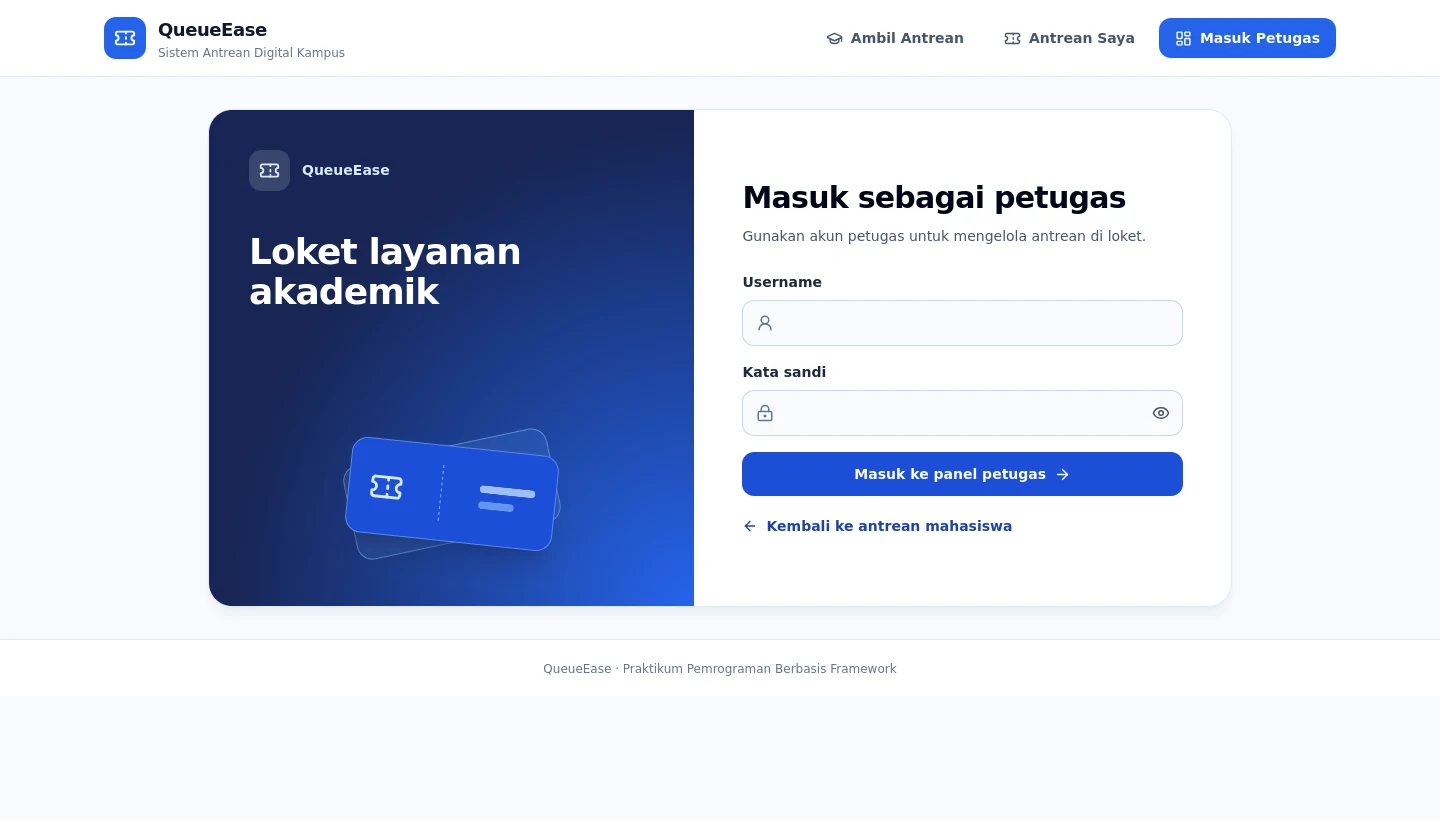
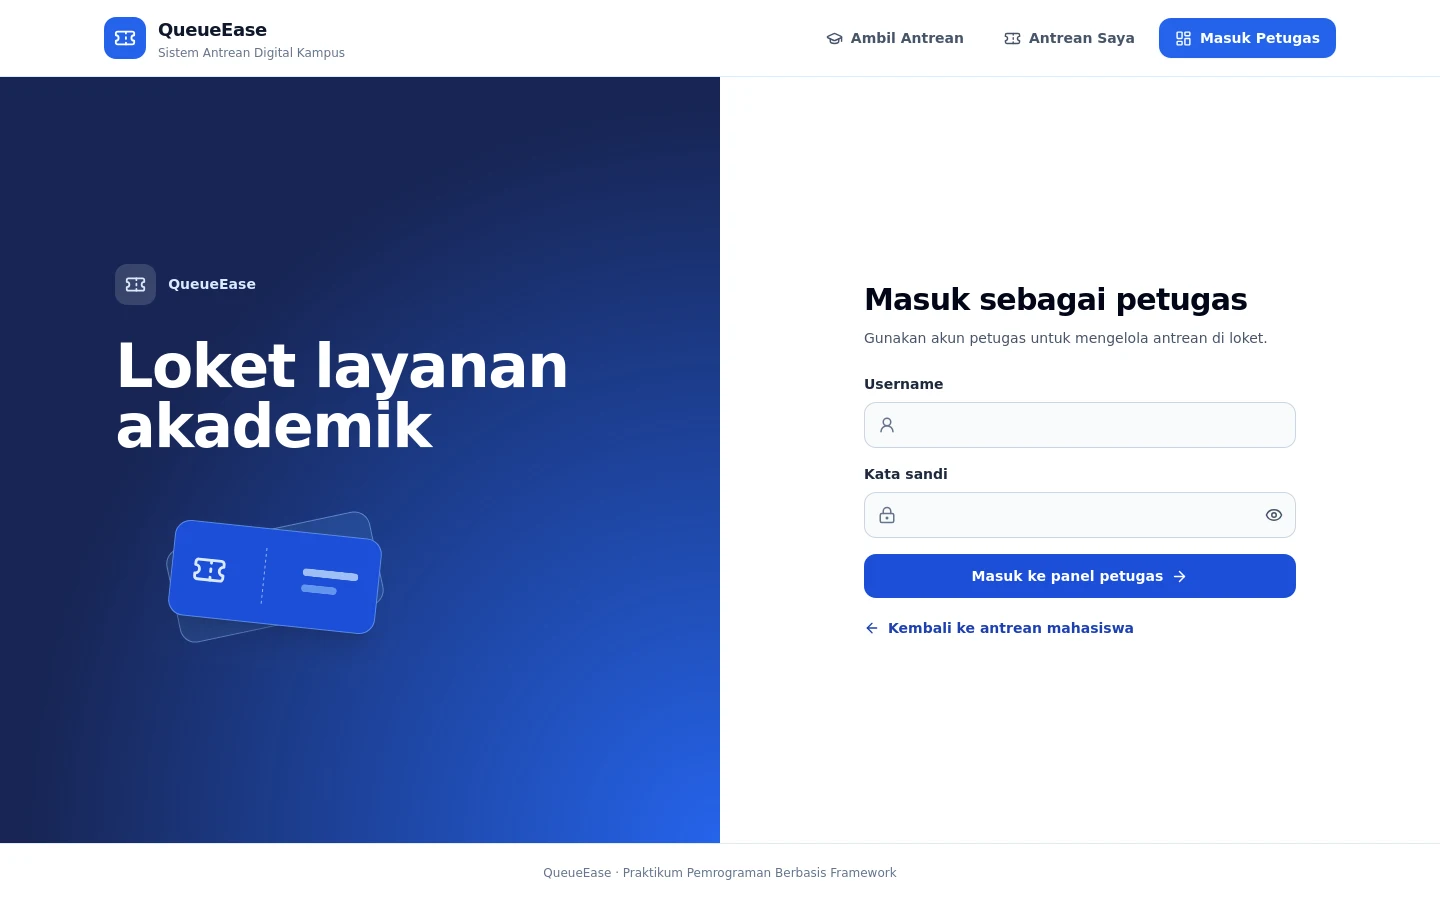
Make sign-in full-page and redesign the TV queue display

diff --git a/frontend/src/pages/DisplayPage.jsx b/frontend/src/pages/DisplayPage.jsx
@@ -1,10 +1,11 @@
 import { useEffect, useState } from "react";
-import { Clock3, Maximize, Megaphone, Minimize, Ticket } from "lucide-react";
+import { DoorOpen, Maximize, Minimize, Pause, Play, Ticket } from "lucide-react";
 import { Link } from "react-router-dom";
 import { getDisplayQueue } from "../services/api";
 
 const timeFormat = new Intl.DateTimeFormat("id-ID", { hour: "2-digit", minute: "2-digit" });
 const dateFormat = new Intl.DateTimeFormat("id-ID", { dateStyle: "full" });
+const notice = "Perhatikan nomor antrean pada layar. Jika nomor Anda terlewat, hubungi petugas loket.";
 
 export default function DisplayPage() {
   const [board, setBoard] = useState(null);
@@ -12,6 +13,7 @@ export default function DisplayPage() {
   const [now, setNow] = useState(() => new Date());
   const [fullscreen, setFullscreen] = useState(Boolean(document.fullscreenElement));
   const [fullscreenError, setFullscreenError] = useState(false);
+  const [tickerPaused, setTickerPaused] = useState(false);
 
   useEffect(() => {
     let active = true;
@@ -56,62 +58,85 @@ export default function DisplayPage() {
   const emptyMessage = error ? "Menunggu koneksi ke server" : board ? "Belum ada panggilan" : "Memuat antrean…";
 
   return (
-    <main className="flex min-h-screen flex-col gap-5 bg-slate-950 px-4 py-5 text-white sm:gap-8 sm:p-8 xl:px-[4vw]">
-      <header className="flex flex-wrap items-center justify-between gap-4">
-        <Link to="/" className="inline-flex items-center gap-3 rounded-lg">
-          <span className="rounded-xl bg-blue-400 p-3 text-slate-950"><Ticket size={24} /></span>
+    <main className="flex min-h-dvh flex-col bg-[#f8f6f0] text-[#14213a]">
+      <header className="flex flex-wrap items-center justify-between gap-4 border-b-2 border-[#14213a] px-5 py-4 sm:px-8 xl:px-[4vw]">
+        <Link to="/" aria-label="QueueEase — kembali ke halaman antrean" className="inline-flex items-center gap-3 rounded">
+          <span className="flex size-11 items-center justify-center bg-[#14213a] text-white"><Ticket size={24} aria-hidden="true" /></span>
           <span>
-            <span className="block text-lg font-bold sm:text-2xl">QueueEase</span>
-            <span className="block text-sm text-slate-300">Layanan akademik</span>
+            <span className="block text-xl font-extrabold leading-tight">QueueEase</span>
+            <span className="block text-sm font-medium">Layanan akademik</span>
           </span>
         </Link>
         <div className="flex items-center gap-4 sm:gap-6">
-          <div className="text-right">
-            <p className="text-xl font-bold tabular-nums sm:text-3xl">{timeFormat.format(now)}</p>
-            <p className="text-xs text-slate-300 sm:text-sm">{dateFormat.format(now)}</p>
+          <div className="sm:flex sm:items-center sm:gap-5">
+            <p className="text-xl font-black tabular-nums sm:text-3xl">{timeFormat.format(now)}</p>
+            <p className="text-sm font-medium">{dateFormat.format(now)}</p>
           </div>
           {document.fullscreenEnabled && (
-            <button type="button" onClick={toggleFullscreen} aria-label={fullscreen ? "Keluar dari layar penuh" : "Layar penuh"} title={fullscreen ? "Keluar dari layar penuh" : "Layar penuh"} className="rounded-xl border border-slate-600 p-3 text-slate-200 hover:bg-slate-800">
-              {fullscreen ? <Minimize size={21} /> : <Maximize size={21} />}
+            <button type="button" onClick={toggleFullscreen} aria-label={fullscreen ? "Keluar dari layar penuh" : "Layar penuh"} title={fullscreen ? "Keluar dari layar penuh" : "Layar penuh"} className="border border-[#14213a] p-2.5 hover:bg-[#14213a] hover:text-white">
+              {fullscreen ? <Minimize size={20} /> : <Maximize size={20} />}
             </button>
           )}
         </div>
       </header>
 
-      {error && <p role="alert" className="rounded-xl bg-amber-100 px-4 py-3 font-semibold text-amber-950">Koneksi terputus. Layar akan mencoba terhubung kembali.</p>}
-      {fullscreenError && <p role="status" className="text-sm text-amber-200">Browser gagal membuka layar penuh.</p>}
+      {error && <p role="alert" className="bg-amber-200 px-5 py-3 font-semibold text-amber-950 sm:px-8">Koneksi terputus. Layar akan mencoba terhubung kembali.</p>}
+      {fullscreenError && <p role="status" className="px-5 py-2 text-sm text-red-800 sm:px-8">Browser gagal membuka layar penuh.</p>}
 
-      <div className="grid flex-1 gap-5 lg:grid-cols-[1.7fr_1fr] xl:gap-8">
-        <section className="flex min-h-[18rem] flex-col justify-between rounded-3xl bg-blue-700 p-6 sm:p-9 xl:p-[3vw]">
-          <div className="flex items-center justify-between gap-4">
-            <h1 className="flex items-center gap-3 text-base font-bold text-blue-100 sm:text-2xl"><Megaphone size={24} /> Sedang dipanggil</h1>
-            <span className="rounded-xl bg-blue-800 px-3 py-2 text-sm font-bold sm:px-4 sm:text-lg">Loket 1</span>
-          </div>
-          <div aria-live="polite" aria-atomic="true" className="py-8">
-            <p className="text-[clamp(5rem,14vw,16rem)] font-black leading-none tracking-tight tabular-nums">{current?.ticket || "—"}</p>
-            <p className="mt-3 text-xl font-semibold text-blue-100 sm:text-3xl">{current?.keperluan || emptyMessage}</p>
-          </div>
-          <p className="min-h-7 text-base font-medium text-blue-100 sm:text-xl">{current ? "Silakan menuju loket pelayanan" : "Panggilan akan muncul di layar ini"}</p>
-        </section>
-
-        <section className="rounded-3xl border border-slate-700 bg-slate-900 p-5 sm:p-7 xl:p-[2vw]">
-          <h2 className="mb-5 flex items-center gap-3 text-lg font-bold sm:text-2xl"><Clock3 size={22} className="text-blue-300" /> Antrean berikutnya</h2>
-          {upcoming.length ? (
-            <ol className="space-y-2.5">
-              {upcoming.map(item => (
-                <li key={item.ticket} className="flex flex-wrap items-baseline justify-between gap-x-4 gap-y-1 rounded-xl bg-slate-800 px-4 py-3 sm:flex-nowrap sm:px-5">
-                  <strong className="text-2xl font-extrabold leading-none text-blue-200 tabular-nums sm:text-4xl">{item.ticket}</strong>
-                  <span className="text-sm text-slate-200 sm:text-right sm:text-base xl:text-lg">{item.keperluan}</span>
-                </li>
-              ))}
-            </ol>
+      <section className="flex flex-1 flex-col justify-center gap-5 px-5 py-10 sm:px-8 lg:grid lg:grid-cols-[minmax(0,1.6fr)_minmax(0,1fr)] lg:items-center lg:gap-8 lg:py-12 xl:px-[4vw]">
+        <div aria-live="polite" aria-atomic="true">
+          <h1 className="text-base font-black uppercase tracking-[0.18em] text-blue-800 sm:text-xl">Nomor dipanggil</h1>
+          <p className={`mt-3 break-all font-black leading-[0.87] tracking-[-0.075em] tabular-nums ${current?.ticket?.length > 4 ? "text-[clamp(3rem,9vw,10rem)]" : "text-[clamp(4.6rem,16vw,17rem)]"}`}>{current?.ticket || "—"}</p>
+          <p className="mt-5 text-xl font-bold sm:text-3xl xl:text-4xl">{current?.keperluan || emptyMessage}</p>
+        </div>
+        <div className="flex min-w-0 items-center gap-4 border-t-2 border-[#14213a] pt-5 lg:border-l-2 lg:border-t-0 lg:py-8 lg:pl-8 xl:pl-12">
+          {current ? (
+            <>
+              <div className="min-w-0">
+                <p className="text-sm font-black uppercase tracking-[0.18em] sm:text-lg">Silakan menuju</p>
+                <p className="mt-1 whitespace-nowrap text-[clamp(2.25rem,4.8vw,6rem)] font-black tracking-tight">Loket 1</p>
+              </div>
+              <DoorOpen className="ml-auto size-12 shrink-0 bg-[#ffda5a] p-2.5 sm:size-20 sm:p-4" aria-hidden="true" />
+            </>
           ) : (
-            <p className="rounded-xl bg-slate-800 px-4 py-5 text-base text-slate-300">
-              {error ? "Antrean belum dapat dimuat." : board ? "Belum ada antrean menunggu." : "Memuat antrean…"}
-            </p>
+            <p className="text-lg font-semibold">Panggilan akan muncul di layar ini.</p>
           )}
-        </section>
-      </div>
+        </div>
+      </section>
+
+      <section className="border-t-2 border-[#14213a] px-5 py-5 sm:px-8 xl:px-[4vw]" aria-labelledby="upcoming-display">
+        <h2 id="upcoming-display" className="text-sm font-black uppercase tracking-[0.18em] sm:text-base">Antrean berikutnya</h2>
+        {upcoming.length > 0 ? (
+          <ol className="mt-3 grid grid-cols-2 border-l border-t border-[#14213a]/30 sm:grid-cols-3 lg:flex">
+            {upcoming.map(item => (
+              <li key={item.ticket} className="min-w-0 flex-1 border-b border-r border-[#14213a]/30 px-3 py-3 sm:px-4">
+                <strong className="block break-all text-2xl font-black leading-none tabular-nums sm:text-4xl xl:text-5xl">{item.ticket}</strong>
+                <span className="mt-2 block text-sm font-medium sm:text-base">{item.keperluan}</span>
+              </li>
+            ))}
+          </ol>
+        ) : (
+          <p className="mt-3 text-base font-medium">{error ? "Antrean belum dapat dimuat." : board ? "Belum ada antrean menunggu." : "Memuat antrean…"}</p>
+        )}
+      </section>
+
+      <footer className="relative flex min-w-0 items-stretch bg-[#14213a] text-white">
+        <span className="z-10 flex shrink-0 items-center bg-[#ffda5a] px-3 py-3 text-xs font-black uppercase tracking-wider text-[#14213a] sm:px-6 sm:text-sm">Informasi</span>
+        <p className={`min-w-0 flex-1 px-3 py-3 text-sm font-medium sm:px-5 sm:text-base ${tickerPaused ? "" : "sr-only motion-reduce:not-sr-only"}`}>{notice}</p>
+        {!tickerPaused && (
+          <div aria-hidden="true" className="min-w-0 flex-1 overflow-hidden motion-reduce:hidden">
+            <div className="display-ticker flex w-max whitespace-nowrap text-sm font-medium sm:text-base">
+              <span className="min-w-[100vw] shrink-0 px-5 py-3">{notice}</span>
+              <span className="min-w-[100vw] shrink-0 px-5 py-3">{notice}</span>
+            </div>
+          </div>
+        )}
+        <button type="button" onClick={() => setTickerPaused(!tickerPaused)} aria-label={tickerPaused ? "Jalankan teks informasi" : "Jeda teks informasi"}
+          title={tickerPaused ? "Jalankan teks informasi" : "Jeda teks informasi"}
+          className="z-10 flex shrink-0 items-center justify-center border-l border-white/30 px-3 hover:bg-white/15 motion-reduce:hidden sm:px-5">
+          {tickerPaused ? <Play size={19} /> : <Pause size={19} />}
+        </button>
+      </footer>
     </main>
   );
 }

diff --git a/frontend/src/pages/LoginPage.jsx b/frontend/src/pages/LoginPage.jsx
@@ -29,15 +29,15 @@ export default function LoginPage() {
   };
 
   return (
-    <section className="mx-auto grid max-w-5xl overflow-hidden rounded-3xl border border-blue-100 bg-white shadow-lg shadow-blue-950/5 md:grid-cols-[0.95fr_1.05fr]" aria-labelledby="staff-login-title">
-      <div className="relative isolate flex flex-col overflow-hidden bg-blue-950 px-6 py-7 text-white sm:px-10 md:min-h-[31rem] md:p-10">
+    <section className="grid flex-1 bg-white lg:grid-cols-2" aria-labelledby="staff-login-title">
+      <div className="relative isolate flex flex-col justify-center overflow-hidden bg-blue-950 px-6 py-8 text-white sm:px-10 lg:px-[8vw] lg:py-12">
         <div aria-hidden="true" className="pointer-events-none absolute inset-0 -z-10 bg-[radial-gradient(ellipse_at_bottom_right,_#2563eb,_transparent_68%)]" />
         <div className="flex items-center gap-3 text-sm font-semibold text-blue-100">
           <span className="rounded-xl bg-white/15 p-2.5"><Ticket size={21} aria-hidden="true" /></span>
           QueueEase
         </div>
-        <p className="mt-5 max-w-xs text-2xl font-extrabold leading-tight tracking-tight sm:text-3xl md:mt-10 md:text-4xl">Loket layanan akademik</p>
-        <div aria-hidden="true" className="relative mt-auto hidden h-36 items-center justify-center md:flex">
+        <p className="mt-4 max-w-lg text-3xl font-extrabold leading-tight tracking-tight sm:text-4xl lg:mt-8 lg:text-6xl">Loket layanan akademik</p>
+        <div aria-hidden="true" className="relative mt-10 hidden h-40 max-w-xs items-center justify-center lg:flex">
           <div className="absolute h-24 w-52 -rotate-12 rounded-2xl border border-blue-300/50 bg-blue-400/15" />
           <div className="relative flex h-24 w-52 rotate-6 items-center justify-between rounded-2xl border border-blue-300/50 bg-blue-700 px-5 shadow-xl shadow-blue-950/30">
             <Ticket size={34} className="text-blue-100" />
@@ -47,7 +47,7 @@ export default function LoginPage() {
         </div>
       </div>
 
-      <div className="flex flex-col justify-center px-6 py-8 sm:px-10 md:px-12 md:py-10">
+      <div className="mx-auto flex w-full max-w-lg flex-col justify-center px-6 py-10 sm:px-10 lg:py-12">
         <h2 id="staff-login-title" className="text-2xl font-extrabold tracking-tight text-slate-950 sm:text-3xl">Masuk sebagai petugas</h2>
         <p className="mt-2 text-sm leading-6 text-slate-600">Gunakan akun petugas untuk mengelola antrean di loket.</p>
         {(error || connectionError) && <p role="alert" className="mt-4 rounded-xl border border-red-200 bg-red-50 p-3 text-sm text-red-800">{error || connectionError}</p>}

diff --git a/frontend/src/App.jsx b/frontend/src/App.jsx
@@ -1,4 +1,4 @@
-import { NavLink, Navigate, Route, Routes } from "react-router-dom";
+import { NavLink, Navigate, Route, Routes, useMatch } from "react-router-dom";
 import { GraduationCap, LayoutDashboard, Ticket } from "lucide-react";
 import StudentPage from "./pages/StudentPage";
 import AdminPage from "./pages/AdminPage";
@@ -12,6 +12,7 @@ import { useState } from "react";
 function Layout() {
   const { user, loading, signOut } = useAuth();
   const [logoutError, setLogoutError] = useState("");
+  const isLoginPage = Boolean(useMatch("/login"));
   const isAdmin = user?.role === "admin";
   const sessionStatus = <p role="status" className="p-8 text-center">Memuat sesi...</p>;
   const linkClass = ({ isActive }) =>
@@ -20,7 +21,7 @@ function Layout() {
     }`;
 
   return (
-    <div className="min-h-screen">
+    <div className="flex min-h-dvh flex-col">
       <header className="border-b border-blue-100 bg-white">
         <div className="mx-auto flex max-w-7xl flex-col gap-4 px-4 py-4 sm:flex-row sm:items-center sm:justify-between sm:px-6">
           <div className="flex items-center gap-3">
@@ -40,7 +41,7 @@ function Layout() {
           </nav>
         </div>
       </header>
-      <main className="mx-auto max-w-7xl px-4 py-8 sm:px-6">
+      <main className={isLoginPage ? "flex w-full flex-1 flex-col" : "mx-auto w-full max-w-7xl flex-1 px-4 py-8 sm:px-6"}>
         {logoutError && <p role="alert">{logoutError}</p>}
         <Routes>
           <Route path="/login" element={loading ? sessionStatus : <LoginPage />} />

diff --git a/frontend/src/index.css b/frontend/src/index.css
@@ -15,3 +15,12 @@ button, input, select { font: inherit; }
   .auth-input { @apply w-full rounded-xl border border-slate-300 px-4 py-3 text-sm outline-none focus:border-blue-500 focus:ring-4 focus:ring-blue-100; }
 }
 :focus-visible { outline: 2px solid #2563eb; outline-offset: 3px; }
+
+@keyframes display-ticker {
+  from { transform: translateX(0); }
+  to { transform: translateX(-50%); }
+}
+
+@media (prefers-reduced-motion: no-preference) {
+  .display-ticker { animation: display-ticker 24s linear infinite; }
+}

diff --git a/README.md b/README.md
@@ -120,6 +120,11 @@ Pada instalasi lama, jalankan ulang [`database/schema.sql`](database/schema.sql)
 - Jika pemegang tiket tidak hadir, klik **Lewati** pada panggilan aktif. Tiket berstatus **Dilewati** dan nomor menunggu berikutnya langsung dipanggil jika tersedia.
 - Jika pemegang tiket datang, klik **Kembalikan** pada baris tiket. Tiket kembali menunggu menurut urutan kedatangan semula.
 - Klik **Buka layar TV** di panel petugas, atau buka `/display` langsung dari perangkat yang terhubung ke TV. Gunakan tombol layar penuh jika tersedia. Tampilan diperbarui otomatis dan hanya menampilkan nomor serta jenis layanan.
+- Bilah **Informasi** menampilkan teks berjalan. Tekan tombol jeda untuk membacanya tanpa gerakan.
+
+### Data demo
+
+Setelah menjalankan skema, jalankan [`database/demo-queue.sql`](database/demo-queue.sql) di SQL Editor Supabase pada database demo. Skrip menambahkan 10 tiket fiktif dengan dua tiket per kategori. Jika antrean kosong, satu tiket langsung berstatus **Dipanggil** agar muncul di layar TV. Jika sudah ada tiket yang menunggu atau dipanggil, tiket contoh masuk sebagai **Menunggu** setelah antrean yang ada. Menjalankan ulang skrip di tanggal yang sama tidak menggandakan tiket.
 
 ## G. Uji alur antrean
 1. Buka halaman mahasiswa (`/`), isi nama dan NIM 5–20 digit, lalu pilih keperluan.
